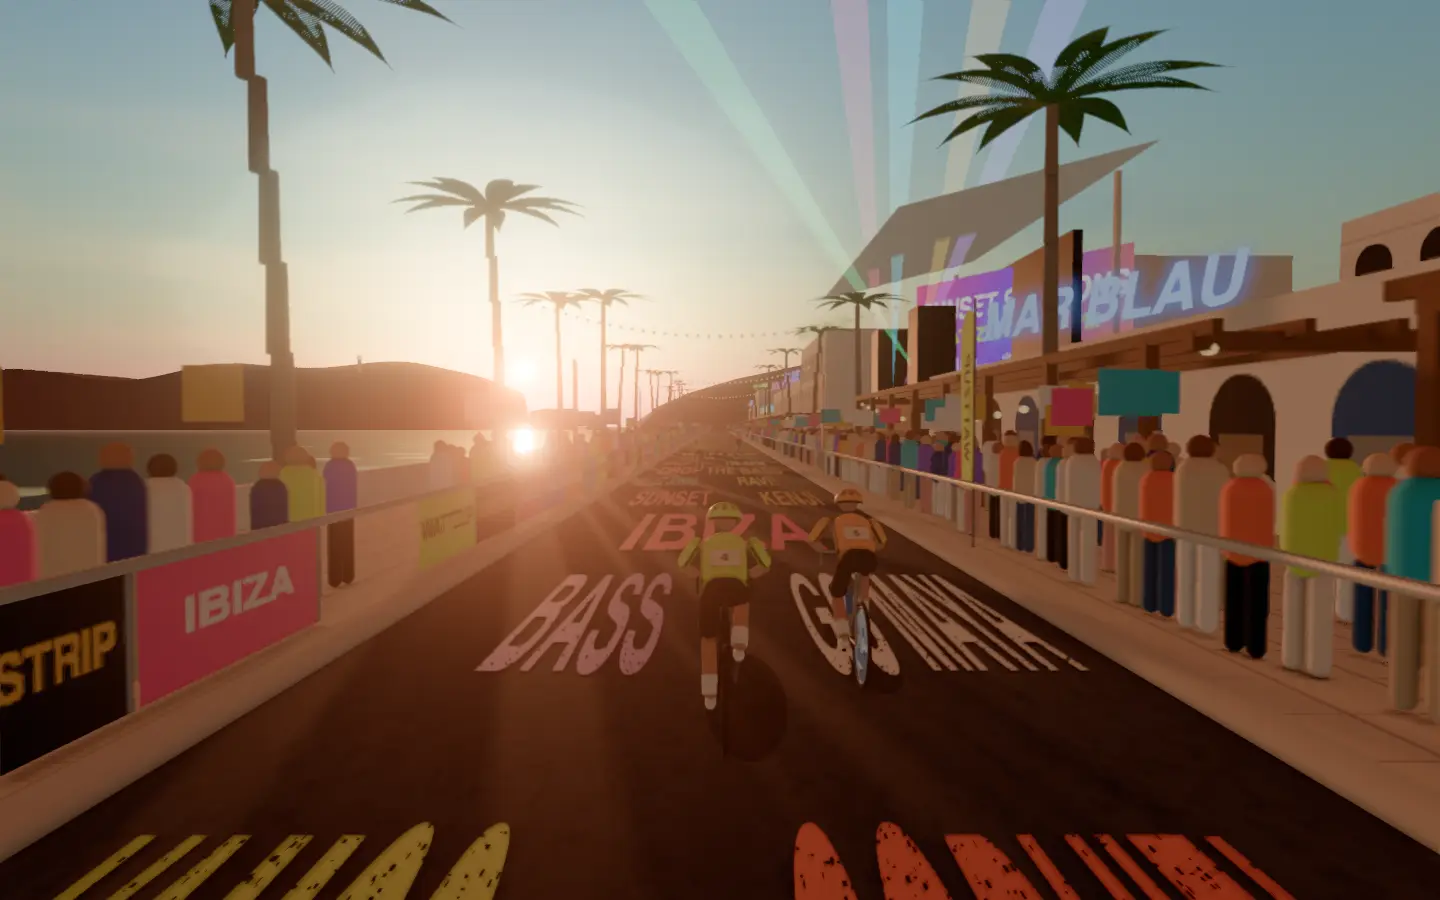
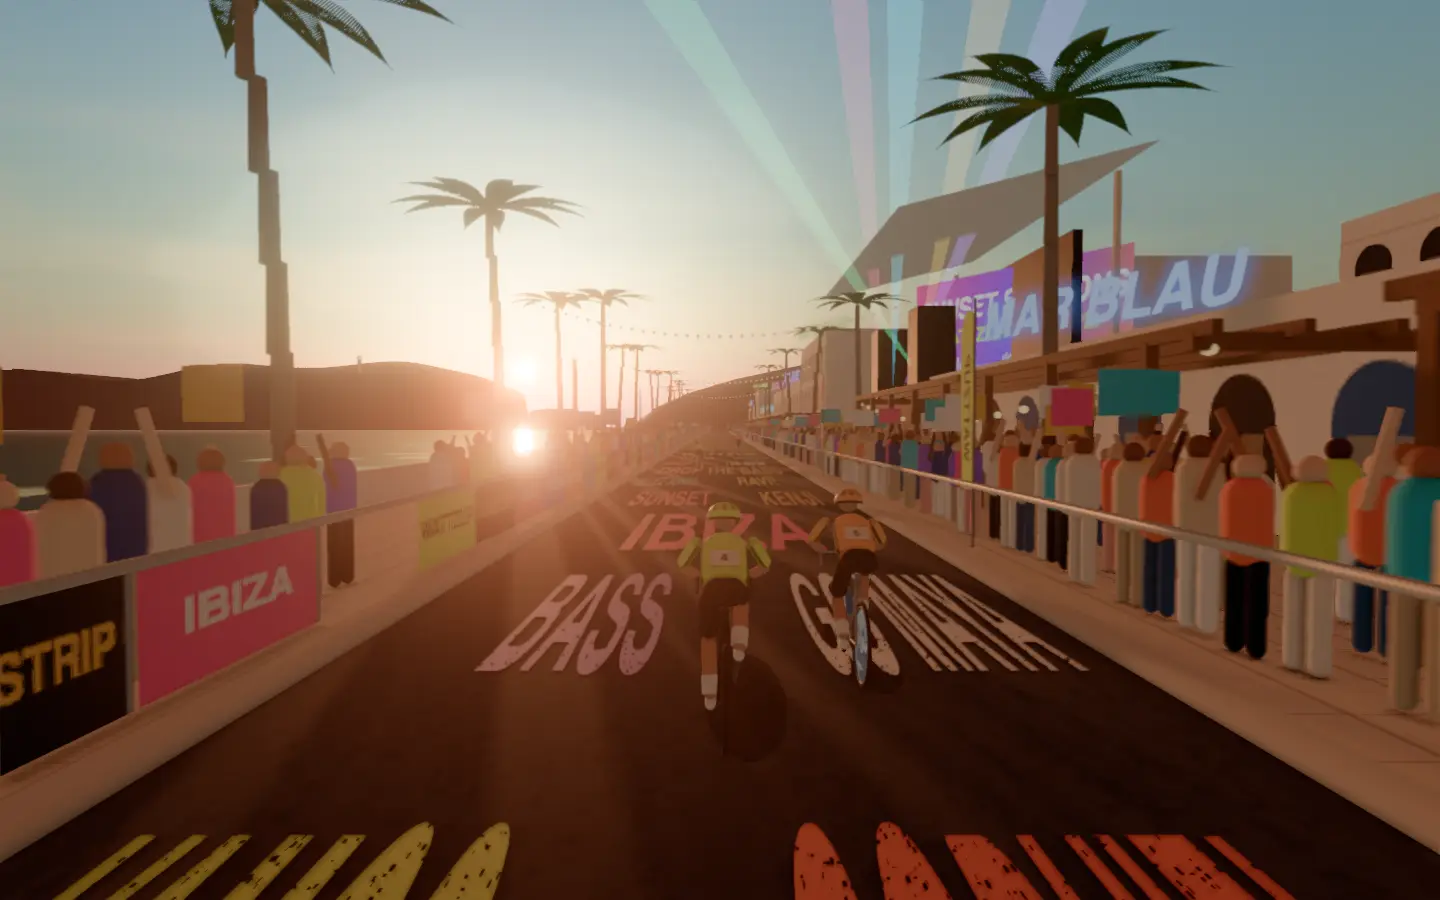
Set Ibiza's crowd dancing with their arms thrown up on the beat
Give the shared crowd an optional share of fans who dance with both arms up.

diff --git a/frontend/projects/wattzup/src/app/core/world-kit.ts b/frontend/projects/wattzup/src/app/core/world-kit.ts
@@ -398,6 +398,11 @@ export interface CrowdOptions {
   readonly seeds: readonly [number, number];
   /** Leaves a gap in the crowd where `skip(side, offset, x)` is true. */
   readonly skip?: (side: -1 | 1, offset: number, x: number) => boolean;
+  /**
+   * The share of fans without a flag who dance with both arms thrown up, swaying on the beat.
+   * Drawn from a seed of its own, so a crowd that leaves it out is laid out as before.
+   */
+  readonly armsUp?: number;
 }
 
 interface Fan {
@@ -408,6 +413,8 @@ interface Fan {
   readonly phase: number;
   /** Which flag, if any, this fan waves over their head. */
   readonly flag: number;
+  /** Whether this fan dances with both arms up. */
+  readonly armsUp: boolean;
 }
 
 /**
@@ -425,6 +432,8 @@ export class Crowd {
   private readonly wave = new Quaternion();
   private readonly size = new Vector3();
   private readonly up = new Vector3(0, 1, 0);
+  private readonly forward = new Vector3(0, 0, 1);
+  private readonly shoulder = new Vector3();
 
   constructor(
     private readonly group: Group,
@@ -448,10 +457,17 @@ export class Crowd {
             height: 0.92 + random() * 0.16,
             phase: random() * 6.3,
             flag: random() < o.flagShare ? Math.floor(random() * o.flags.length) : -1,
+            armsUp: false,
           };
           if (!o.skip?.(side, fan.offset, fan.x)) this.fans.push(fan);
         }
       }
+    }
+    if (o.armsUp) {
+      const dancing = seeded(o.seeds[0] + 2);
+      this.fans.forEach((fan, i) => {
+        if (fan.flag < 0 && dancing() < o.armsUp!) this.fans[i] = { ...fan, armsUp: true };
+      });
     }
     const n = this.fans.length;
     this.figures = new Figures(this.group, this.disposables, n, o.wardrobe, o.seeds[1]);
@@ -459,12 +475,26 @@ export class Crowd {
     const arm = new CylinderGeometry(0.045, 0.045, 0.7, 6);
     const skin = new MeshStandardMaterial({ roughness: 0.7 });
     this.disposables.push(arm, skin);
-    this.arms = this.instanced(arm, skin, n);
+    // Two arms a fan at most: one for a flag, or both thrown up to dance.
+    this.arms = this.instanced(arm, skin, 2 * n);
     const c = new Color();
     const tones = seeded(o.seeds[1] + 1);
-    for (let i = 0; i < n; i++) {
-      const tone = o.wardrobe.skins[Math.floor(tones() * o.wardrobe.skins.length)]!;
-      this.arms.setColorAt(i, c.set(tone));
+    const skins: string[] = [];
+    for (let i = 0; i < 2 * n; i++) {
+      skins.push(o.wardrobe.skins[Math.floor(tones() * o.wardrobe.skins.length)]!);
+    }
+    // Every fan is placed on every frame in the same order, so each raised arm keeps its slot:
+    // a flag's arm takes the next one, a dancer's two arms the next pair, in one skin tone.
+    let slot = 0;
+    for (const fan of this.fans) {
+      if (fan.armsUp) {
+        this.arms.setColorAt(slot, c.set(skins[slot]!));
+        this.arms.setColorAt(slot + 1, c);
+        slot += 2;
+      } else if (fan.flag >= 0) {
+        this.arms.setColorAt(slot, c.set(skins[slot]!));
+        slot++;
+      }
     }
     const flag = new PlaneGeometry(0.75, 0.5, 4, 1);
     this.disposables.push(flag);
@@ -493,6 +523,21 @@ export class Crowd {
       const bounce = Math.abs(Math.sin(time * 4.2 + fan.phase)) * 0.05;
       const h = fan.height;
       figures.set(i, fan.x, y, -metres, heading, h, bounce);
+      if (fan.armsUp) {
+        // Both arms thrown up in a V from the shoulders, swaying wider and narrower on the beat.
+        const open = 0.38 + Math.sin(time * 4.2 + fan.phase) * 0.14;
+        this.turn.setFromAxisAngle(this.up, heading);
+        this.size.setScalar(h);
+        for (const hand of [-1, 1]) {
+          this.wave.setFromAxisAngle(this.forward, hand * open);
+          this.wave.premultiply(this.turn);
+          this.shoulder.set(hand * (0.2 + Math.sin(open) * 0.3) * h, 0, 0);
+          this.shoulder.applyQuaternion(this.turn);
+          this.spot.set(fan.x + this.shoulder.x, y + 1.62 * h + bounce, -metres + this.shoulder.z);
+          arms.setMatrixAt(arm++, this.matrix.compose(this.spot, this.wave, this.size));
+        }
+        return;
+      }
       if (fan.flag < 0) return;
       // A flag held high on a short pole, waving from side to side.
       const sway = Math.sin(time * 3 + fan.phase) * 0.5;

diff --git a/frontend/projects/wattzup/src/app/core/world-ibiza.ts b/frontend/projects/wattzup/src/app/core/world-ibiza.ts
@@ -184,6 +184,7 @@ export class IbizaStreet implements SceneStreet {
       flagShare: 0.15,
       seeds: [7011, 7017],
       skip: (side, offset, x) => side < 0 && (Math.abs(x) > CROWD_NEAR + 0.6 || offset % 8 < 3),
+      armsUp: 0.4,
     });
     this.group.add(this.horizon, this.sea);
   }

diff --git a/docs/detailed-designs/world-ride/draw-class-scene/README.md b/docs/detailed-designs/world-ride/draw-class-scene/README.md
@@ -103,7 +103,7 @@ None.
   - the shared crowd behind the barriers, one deep and in clusters on the beach side so the sand, the lifeguard towers and the sea show between them, joggers on the lawn path running towards the rider, beachgoers on the sand and at the surf line under striped beach umbrellas (the kit's `Figures`), and brown pelicans gliding along the shore on the street's clock;
   - the stepped deco tower at the end of the drive, 170 m high, with neon fins up each stage, its setbacks ringed in neon, a neon crown and a beacon on its spire. Its faces catch the dawn glow against the sunrise behind it, and it is hazed by hand.
 
-  `lay`, `place` and `setTime` recycle it along a 400 m loop. Every texture is drawn on a canvas, so the scene loads no assets. The shared kit (`core/world-kit.ts`) also holds the crowd behind the barriers, the painted road writing and the race's cloth and barrier banners, which Old Town, Caribana and South Beach draw from it, and the palms (`Palms`: a curved ringed trunk under eleven drooping fronds, made once and shared) that South Beach and Ibiza plant, and the painted rows (`paintedRows`: a row of two names in staggered lanes every few metres, every third a slogan right across, one material per name) that Bonneville and Ibiza lay.
+  `lay`, `place` and `setTime` recycle it along a 400 m loop. Every texture is drawn on a canvas, so the scene loads no assets. The shared kit (`core/world-kit.ts`) also holds the crowd behind the barriers, the painted road writing and the race's cloth and barrier banners, which Old Town, Caribana and South Beach draw from it, and the palms (`Palms`: a curved ringed trunk under eleven drooping fronds, made once and shared) that South Beach and Ibiza plant, and the painted rows (`paintedRows`: a row of two names in staggered lanes every few metres, every third a slogan right across, one material per name) that Bonneville and Ibiza lay. The crowd takes an optional `armsUp` share of flagless fans who dance with both arms up, drawn from a seed of its own so a crowd that leaves it out stands as before.
 - **The Kuipke (`core/world-ghent.ts`).** For `ghent`, the first indoor scene:
   - the home straight's pine boards over the road, with the measurement, sprinters' and stayers' lines, the côte d'azur inside them and the banking sweeping up on the right to the sponsors' boards; the back straight mirrored across the infield;
   - steep tiers behind both bankings packed with a standing crowd (`Figures`) bouncing on the ride's clock, and more fans on the infield;
@@ -459,7 +459,7 @@ None.
   - ahead Lago Pehoé's turquoise water whipped into white crests on the ride's clock, the Cuernos' granite horns capped in black slate, the three Torres, Paine Grande's glaciers, lenticular clouds stacked over the summits, and a condor wheeling, keeping their bearing.
 - **Ibiza Sunset Strip (`core/world-ibiza.ts`).** For `ibiza`, the waterfront strip of Sant Antoni as the sun goes down, closed for the ride:
   - the strip's asphalt painted all over with the crowd's names and cries in bright pink, gold, aqua, lime and white, a row every 7 m of two names either side of the crown (DROP IT, 128 BPM, GO MAYA, BASS and more), every third row a slogan painted big right across it (IBIZA, DROP THE BASS, WATTZUP, SUNSET STRIP), laid by the kit's painted rows; barriers hung with the ride's banners (IBIZA, SUNSET STRIP, WATTZUP, SANT ANTONI, DROP THE BASS, 128 BPM) under a white rail, the kit's feather flags every 18 m along both, two banners over the strip (IBIZA · SUNSET STRIP, WATTZUP · INTERVALS TO THE BEAT), and festoons of warm bulbs strung across it every 36 m;
-  - the sunset crowd in white linen, beachwear and neon (the shared crowd), packed in front of the clubs and a single loose row on the promenade so the sea shows between them;
+  - the sunset crowd in white linen, beachwear and neon (the shared crowd), packed in front of the clubs and a single loose row on the promenade so the sea shows between them, two in five without a flag dancing with both arms thrown up in a V that swings wider and narrower on the beat (the crowd's `armsUp` share);
   - on the left the promenade's pale paving out to a low white seawall 9 m off the crown, the kit's palms every 13 m, the limestone rocks below and the sea, violet blue with gold and pink glinting on it, out to the horizon;
   - on the right, 10 m off the crown, the beach clubs: whitewashed cubes of one to three floors with arched openings and blue doors, a parapet round the roof terrace, a pergola terrace in front strung with warm bulbs, each club's neon name on its roof turned a little toward the rider (SOL Y MAR, LA PUESTA, OCASO, CALA BEAT, MAR BLAU, ATARDECER, WATTZUP CLUB, BLUE BAY), palms between them and a second row of whitewashed blocks behind;
   - the DJ terrace 55 m ahead on the right in the opening view: a stage raised 3.4 m over the crowd's heads under a white sail canopy 15 m up, the DJ at the decks between two tall stacks of speakers, a screen behind them turned toward the rider with SUNSET SESSIONS and WATTZUP · 128 BPM over a pulse of colour and the beat's waveform, and five coloured beams sweeping up into the dusk on the beat (`setTime` moves them, so they hold still for reduced motion);

diff --git a/docs/class-worlds.md b/docs/class-worlds.md
@@ -49,7 +49,7 @@ Every class in `frontend/public/classes.json`, with its World Ride scene. Render
 | 43 | Non-Stop Sprinting | Monaco Street Circuit | 80% | Port Hercule glitters under a Riviera sun on race weekend, superyachts moored along the quay beside the catch fences and packed grandstands of the street circuit while the pastel town climbs its hill to the Casino. The five-minute warm-up rolls along the harbour front, each sprint from fifteen seconds to a minute and a half bursts between the red and white kerbs past the yachts, and the recoveries spin easy with the Casino's copper towers ahead. |
 | 44 | In & Out of the Saddle Hill Climb Reps | Mont Ventoux | 70% | Bare white limestone in the mistral; stand and sit up the Giant of Provence. |
 | 45 | Ride to the Beat | Mardi Gras, New Orleans (concept) |  | Brass bands and bead-throwing floats on St. Charles Avenue; pedal to the parade's beat. |
-| 46 | Intervals to the Beat | Ibiza Sunset Strip | 77% | The sun sinks into the sea off Sant Antoni beside the island of Conillera, whitewashed beach clubs lining the strip with their neon names, palms and pergola terraces as a DJ sweeps light beams over the dancing crowd under festoon lights. The warm-up cruises the waterfront under the opening set, each effort from fifteen seconds to a minute and a quarter drops with the bass past the clubs and the DJ terrace, and the recoveries float easy along the promenade toward the sunset. |
+| 46 | Intervals to the Beat | Ibiza Sunset Strip | 78% | The sun sinks into the sea off Sant Antoni beside the island of Conillera, whitewashed beach clubs lining the strip with their neon names, palms and pergola terraces as a DJ sweeps light beams over the dancing crowd under festoon lights. The warm-up cruises the waterfront under the opening set, each effort from fifteen seconds to a minute and a quarter drops with the bass past the clubs and the DJ terrace, and the recoveries float easy along the promenade toward the sunset. |
 | 47 | 20 Minute Crit Sprints | Chicago Loop Crit | 76% | Downtown streets beneath the L tracks; sprint every corner of a city criterium. |
 | 48 | High Cadence Sprints | Victoria Harbour (concept) |  | Hong Kong's neon skyline and Star Ferries; spin fast along the harbourfront promenade. |
 | 49 | 20 Minutes to Work on Your Cadence | Strade Bianche (concept) |  | White gravel roads between cypresses and Tuscan hill towns near Siena. |
